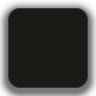
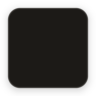
fix: softer single-layer shadows and full header window dragging
Replaces the heavy brown window/sheet nine-slice halos with low-opacity neutral Gaussian-like shadows and thin edging. Expands the frameless native move area to cover header whitespace and top padding up to the existing resize border while keeping controls and drag-to-pin independent.

PR #5: Windows cargo test, release build, installer, portable ZIP and checksum artifact checks passed.

Changed region(s): [[0.0, 0.0312, 1.0, 1.0]]

diff --git a/CHANGELOG.md b/CHANGELOG.md
@@ -6,6 +6,10 @@ and this project adheres to [Semantic Versioning](https://semver.org/).
 
 ## [Unreleased]
 
+### Fixed
+- Rebuilt the rounded main-window and sheet shadow assets with a **single soft neutral penumbra**, reduced opacity and a thin, low-contrast edge; removes the dark brown layered halo.
+- Expanded the frameless header's native move area across the full upper band and padding, stopping precisely at the OS resize border; clickable controls and the drag-to-pin gesture retain their own pointer handling.
+
 ## [3.3.0] — 2026-10-27
 
 ### Fixed and refined
